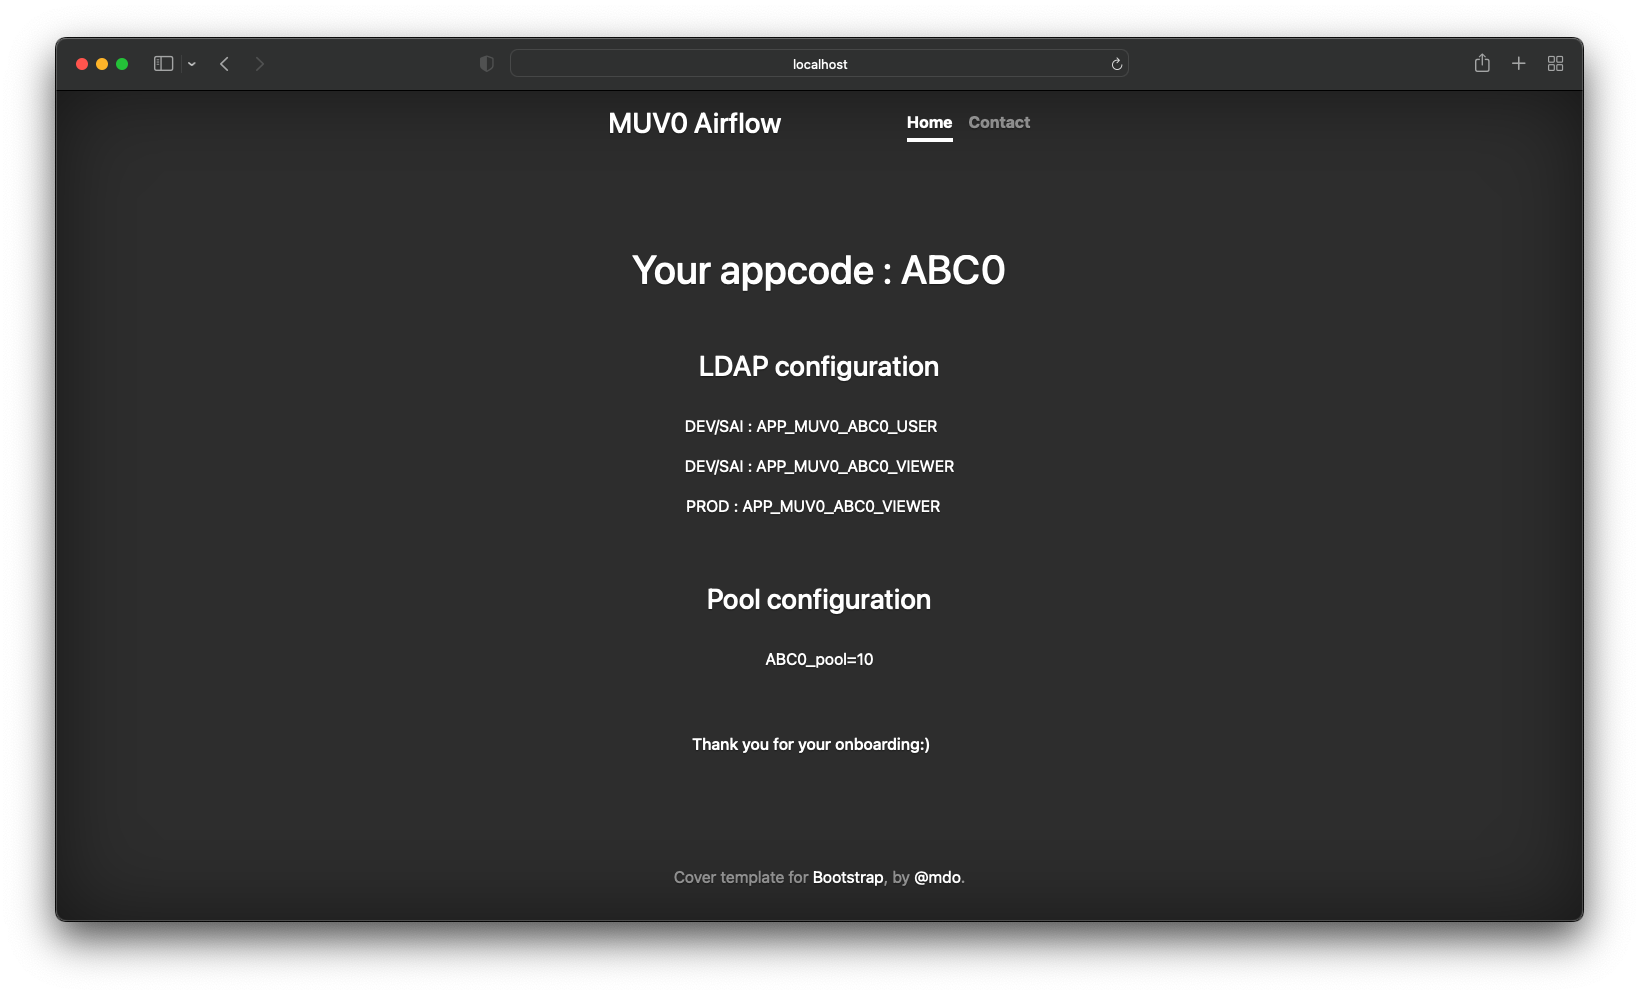
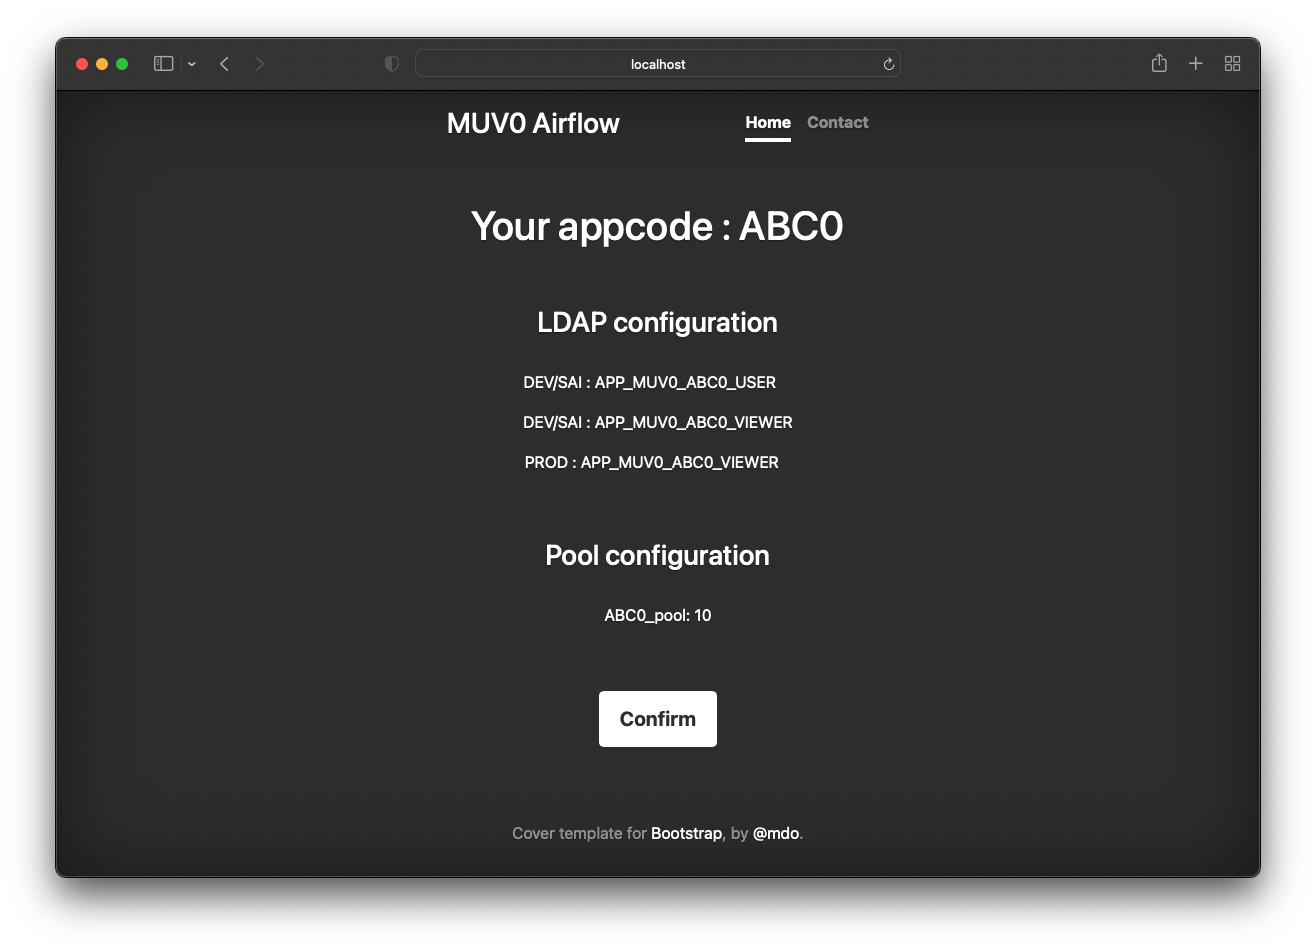
Notification build (#5)
* added confirm page etc

* Update README.md

diff --git a/templates/confirm.html b/templates/confirm.html
@@ -30,24 +30,9 @@
       </header>
 
       <main role="main" class="inner cover">
-        <h1 class="cover-heading"> Your appcode : {{ appcode }}</h1>
-        </br>
-        </br>
-        <h3 class="cover-heading">LDAP configuration </h3>
-        </br>
-        <p> DEV/SAI : APP_MUV0_{{ appcode }}_USER &nbsp;&nbsp;&nbsp;</p>
-        <p> DEV/SAI : APP_MUV0_{{ appcode }}_VIEWER</p>
-        <p> PROD : APP_MUV0_{{ appcode }}_VIEWER&nbsp;&nbsp;&nbsp;</p>
-        </br>
-        </br>
-        <h3 class="cover-heading">Pool configuration </h3>
-        </br>
-        <p>{{ appcode }}_pool: 10</p>
-        </br>
-        </br>
-        <p class="lead">
-          <a href="confirm" class="btn btn-lg btn-secondary">Confirm</a>
-        </p>
+        <h2 class="cover-heading"> Thank you :)</h2>
+        <h3 class="cover-heading"> You have created a new pull request for config update. </h3>
+        <h3 class="cover-heading"> We will review and onboard your appcode soon! </h3>
       </main>
 
       <footer class="mastfoot mt-auto">

diff --git a/app.py b/app.py
@@ -16,6 +16,10 @@ def contact():
 def form():
     return render_template("form.html")
 
+@app.route('/confirm')
+def confirm():
+    return render_template("confirm.html")
+
 @app.route('/submit',  methods=['POST'])
 def submit():
     appcode = request.form.get("appcode")

diff --git a/README.md b/README.md
@@ -8,47 +8,232 @@ Flask app to deploy ldap.yaml and airflow_pool.yaml changes
 
 # Onboard page
 
-(Backend logic is not ready yet.. WIP)
-
 ![Screenshot](images/onboard_page.png)
 ![Screenshot](images/onboard_page(2).png)
 ![Screenshot](images/submit_page.png)
+
+# Confirm page
+![Screenshot](images/confirm_page.png)
 # Contact page
 ![Screenshot](images/contact_page.png)
 
 # How this work?
 
 1. User adds input `appcode (i.e, ABC0)` through webpage
-2. App pulls `airflow ldap git repo` and creates a new branch (i.e. onboarding-ABC0)
-3. `echo APP_MUV0_ABC0_USER >> DEV/ldap.yaml` and pushes the change into repo
+2. App will clone ldap repo and pool repo and create a new branch (`git checkout -b onboarding-${app_code}`)
+3. Add new config and push the new branch into remote
+4. Slack git bot will detect new branch creation and send notifications to admin
+5. Admin review the new branch/PR and merge into master
+
+
+# New branch creation from flask app
+
+Following branches are newly created from flask app
+## LDAP
+
+![Screenshot](images/new_branch_ldap(1).png)
+![Screenshot](images/new_branch_ldap(2).png)
+
+## Pool
+
+![Screenshot](images/new_branch_pool(1).png)
+![Screenshot](images/new_branch_pool(2).png)
+
+
+# Slack Notification (Git repo <-> Slack)
+
+App admin can subscribe git repo's changes using Slack
+
+![Screenshot](images/slack.png)
+
+Once admin gets this nofication, they will review the new branche and merge into master.
+# Flask app log
 ```
-# DEV
-echo APP_MUV0_ABC0_USER >> DEV/ldap.yaml
+* Serving Flask app 'app' (lazy loading)
 
-# QA
-echo APP_MUV0_ABC0_USER >> QA/ldap.yaml
+ * Environment: production
 
-#UAT
-echo APP_MUV0_ABC0_USER >> UAT/ldap.yaml
+   WARNING: This is a development server. Do not use it in a production deployment.
 
-#PROD
-echo APP_MUV0_ABC0_VIEWER >> PROD/ldap.yaml
+   Use a production WSGI server instead.
+
+ * Debug mode: on
+
+ * Running on all addresses.
+
+   WARNING: This is a development server. Do not use it in a production deployment.
+
+ * Running on http://172.17.0.2:3000/ (Press CTRL+C to quit)
+
+ * Restarting with stat
+
+ * Debugger is active!
+
+ * Debugger PIN: 979-184-803
+
+172.17.0.1 - - [08/Jun/2022 21:19:51] "GET / HTTP/1.1" 200 -
+
+172.17.0.1 - - [08/Jun/2022 21:19:51] "GET /dist/js/bootstrap.min.js HTTP/1.1" 404 -
+
+...
+
+Received appcode: ABC0
+
+LDAP DEV/QA/UAT: APP_MUV0_ABC0_USER
+
+LDAP PROD: APP_MUV0_ABC0_VIEWER
+
+Pool: ABC0_pool: 10
+
+############################# LDAP setup ###############################
+
+git clone
+
+git checkout -b
+
+add changes
+
+git add .
+
+git commit
+
+[onboarding-ABC0 3dbe84d] [ldap] new appcode onboarding
+
+ 4 files changed, 4 insertions(+)
+
+Branch 'onboarding-ABC0' set up to track remote branch 'onboarding-ABC0' from 'origin'.
+
+The following changes since commit a47a68e256709e7a19053fc0ce81d391ed1800bb:
+
+
+  init (2022-06-08 11:18:26 -0400)
+
+
+are available in the Git repository at:
+
+
+  https://github.com/bmoon4/ldap-test onboarding-ABC0
+
+
+for you to fetch changes up to 3dbe84d759a9ae69448c1ebca20747d292fd3840:
+
+
+  [ldap] new appcode onboarding (2022-06-08 21:20:02 +0000)
+
+
+----------------------------------------------------------------
+
+root (1):
+
+      [ldap] new appcode onboarding
+
+
+ configs/dev/ldap.yaml  | 1 +
+
+ configs/prod/ldap.yaml | 1 +
+
+ configs/qa/ldap.yaml   | 1 +
+
+ configs/uat/ldap.yaml  | 1 +
+
+ 4 files changed, 4 insertions(+)
+
+############################# Pool setup ###############################
+
+git clone
+
+git checkout -b
+
+add changes
+
+git add .
+
+git commit
+
+[onboarding-ABC0 802d7ba] [pool] new appcode onboarding
+
+ 4 files changed, 4 insertions(+)
+
+Branch 'onboarding-ABC0' set up to track remote branch 'onboarding-ABC0' from 'origin'.
+
+The following changes since commit 7c0d7036d43215322ff87e92bcca1da3377d4c64:
+
+
+  init (2022-06-08 11:22:10 -0400)
+
+
+are available in the Git repository at:
+
+
+  https://github.com/bmoon4/pool-test onboarding-ABC0
+
+
+for you to fetch changes up to 802d7ba38d1051cebb4fea841cd536b60d9b1e56:
+
+
+  [pool] new appcode onboarding (2022-06-08 21:20:04 +0000)
+
+
+----------------------------------------------------------------
+
+root (1):
+
+      [pool] new appcode onboarding
+
+
+ configs/dev/pools.yaml  | 1 +
+
+ configs/prod/pools.yaml | 1 +
+
+ configs/qa/pools.yaml   | 1 +
+
+ configs/uat/pools.yaml  | 1 +
+
+ 4 files changed, 4 insertions(+)
+
+Cloning into 'temp'...
+
+172.17.0.1 - - [08/Jun/2022 21:20:02] "GET /assets/js/vendor/popper.min.js HTTP/1.1" 404 -
+
+172.17.0.1 - - [08/Jun/2022 21:20:02] "GET /static/css/bootstrap.min.css HTTP/1.1" 304 -
+
+172.17.0.1 - - [08/Jun/2022 21:20:02] "GET /dist/js/bootstrap.min.js HTTP/1.1" 404 -
+
+172.17.0.1 - - [08/Jun/2022 21:20:02] "GET /static/css/cover.css HTTP/1.1" 304 -
+
+Switched to a new branch 'onboarding-ABC0'
+
+remote:
+
+remote: Create a pull request for 'onboarding-ABC0' on GitHub by visiting:
+
+remote:      https://github.com/bmoon4/ldap-test/pull/new/onboarding-ABC0
+
+remote:
+
+To https://github.com/bmoon4/ldap-test.git
+
+ * [new branch]      onboarding-ABC0 -> onboarding-ABC0
+
+Cloning into 'temp'...
+
+Switched to a new branch 'onboarding-ABC0'
+
+remote:
+
+remote: Create a pull request for 'onboarding-ABC0' on GitHub by visiting:
+
+remote:      https://github.com/bmoon4/pool-test/pull/new/onboarding-ABC0
+
+remote:
+
+To https://github.com/bmoon4/pool-test.git
+
+ * [new branch]      onboarding-ABC0 -> onboarding-ABC0
+
+172.17.0.1 - - [08/Jun/2022 21:20:28] "GET /confirm HTTP/1.1" 200 -
+
+172.17.0.1 - - [08/Jun/2022 21:20:28] "GET /assets/js/vendor/popper.min.js HTTP/1.1" 404 -
+
+...
 ```
-4. App pulls `airflow pool git repo` and creates a new branch (i.e. onboarding-ABC0)
-5. `echo ABC0_pool=10 >> DEV/pool.yaml` and pushes the change into repo (10 slots by default)
-
-```
-# DEV
-echo ABC0_pool=10 >> DEV/pool.yaml
-
-# QA
-echo ABC0_pool=10 >> QA/pool.yaml
-
-#UAT
-echo ABC0_pool=10 >> UAT/pool.yaml
-
-#PROD
-echo ABC0_pool=10 >> PROD/pool.yaml
-```
-6. Jenkins pipeline will trigger new build -> deploy into Openshift
-
